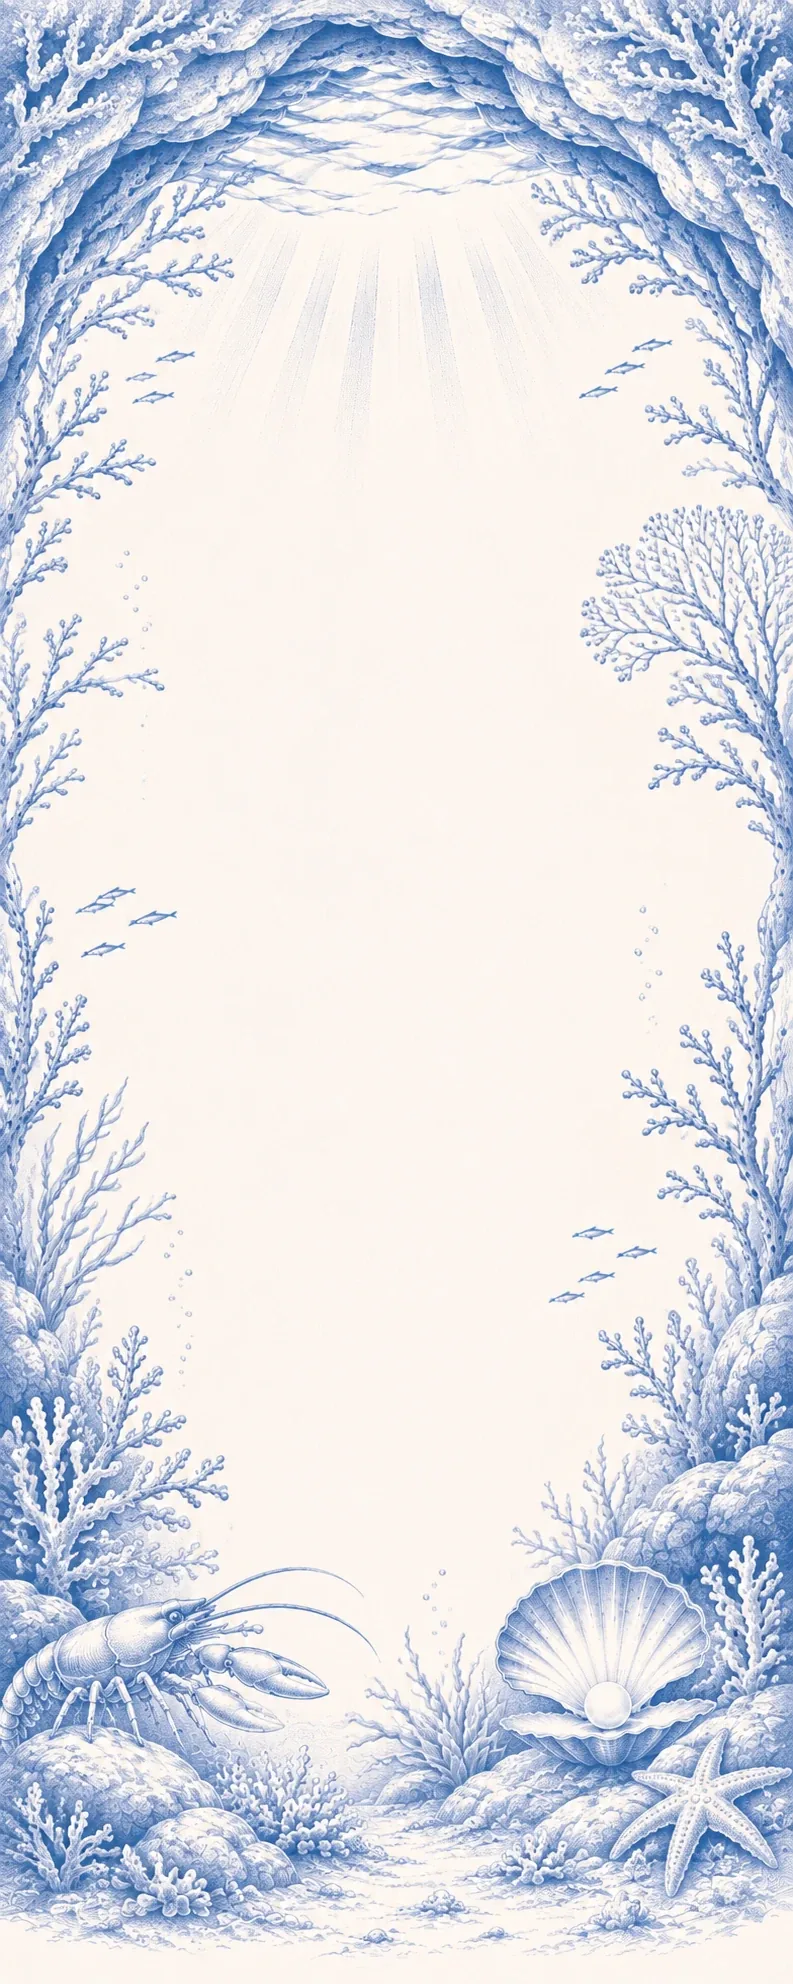
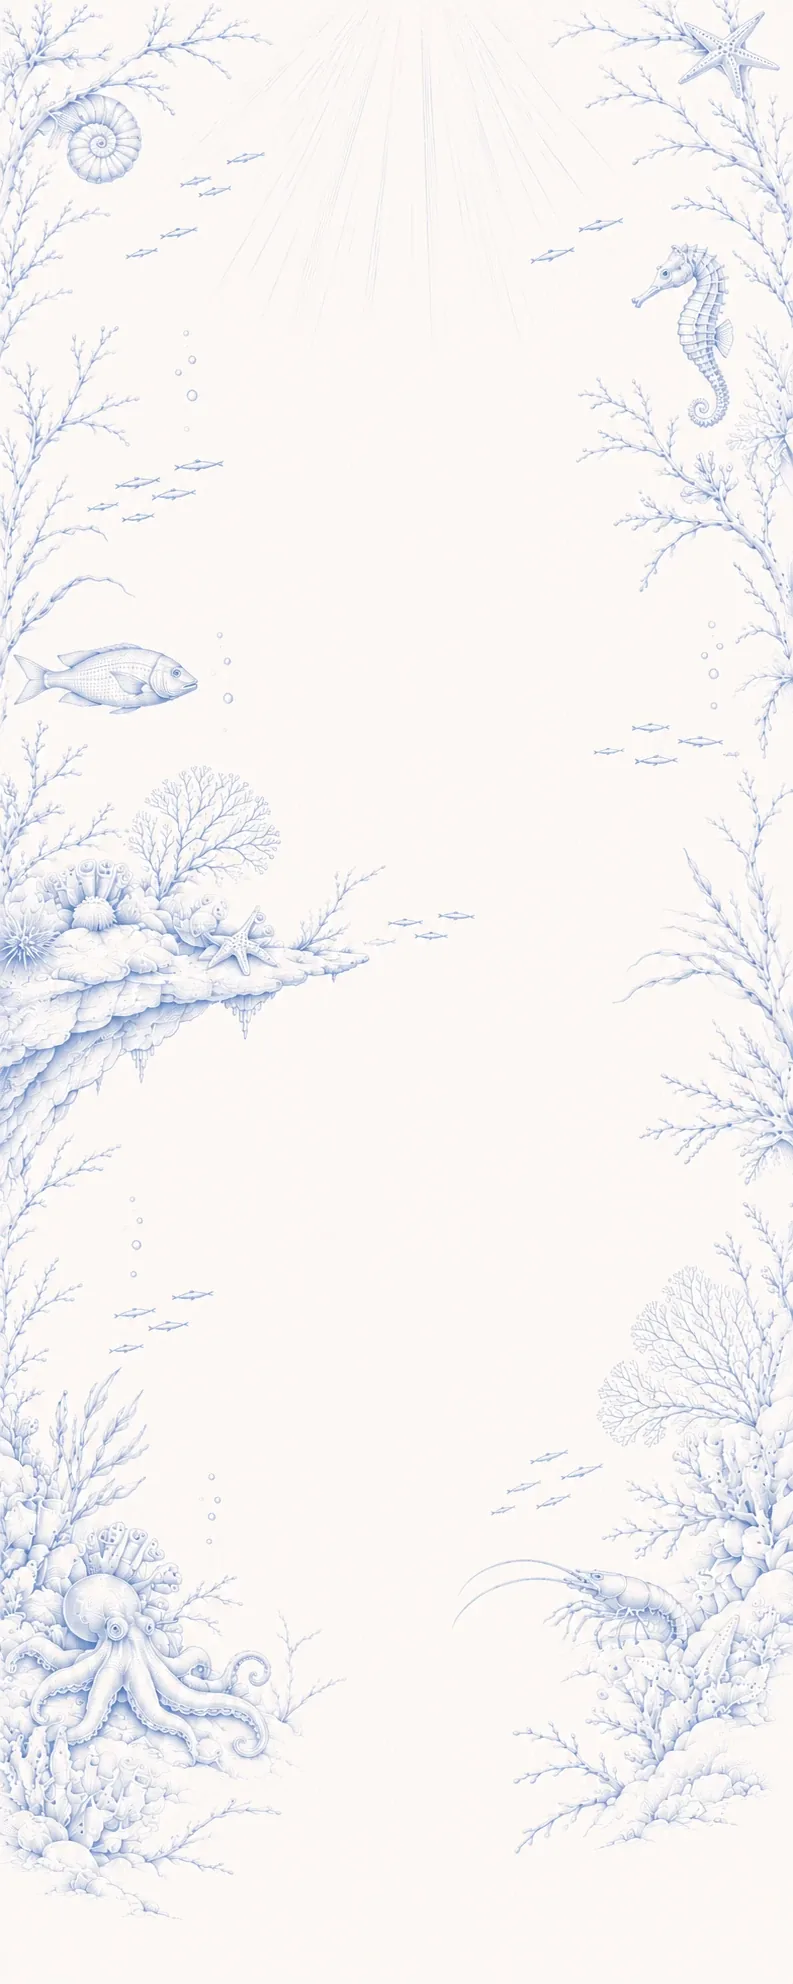
Sfondo Gran Catalana / Plateau Royale: nuovo disegno (fondale con polpo e gambero)

diff --git a/index.html b/index.html
@@ -286,25 +286,25 @@ main{ overflow-x:clip; }
    SEZIONE IN EVIDENZA — i piatti più importanti del menu (premium:true nel MENU):
    Gran Catalana di crostacei e Plateau Royale. Un blocco più alto e arioso, un piatto per volta,
    centrato e grande, con titolo e ingredienti sotto.
-   SFONDO: image/sfondi/bg-premium.webp (disegno a china con cornice di coralli). Per cambiarlo basta
+   SFONDO: image/sfondi/bg-premium.webp (disegno a china: fondale con coralli, polpo e gambero). Per cambiarlo basta
    sostituire quel file o modificare background-image in .dish-block--premium (si carica da solo solo
    quando serve, grazie a data-lazy).
    ============================================================ */
 .dish-block--premium{
   position:relative;
-  padding-top:150px; padding-bottom:350px;      /* l'arco in alto e le rocce in basso restano liberi */
+  padding-top:100px; padding-bottom:350px;      /* in basso polpo e gambero restano liberi */
   background-image:url('image/sfondi/bg-premium.webp');
   background-repeat:no-repeat; background-size:cover; background-position:center;
   background-color:var(--bg-base);
 }
 @media (min-width:768px){
-  /* il disegno è una cornice verticale (793x1984): su schermi larghi resta una colonna centrale,
+  /* il disegno è verticale (793x1984): su schermi larghi resta una colonna centrale,
      con i bordi che sfumano nel fondo della pagina */
   .category .dish-block--premium{
     width:min(100%, 860px); margin-left:auto; margin-right:auto;
     padding-left:0; padding-right:0;
     aspect-ratio:793 / 1984;
-    padding-top:min(300px, 36vw); padding-bottom:min(560px, 66vw);
+    padding-top:min(200px, 24vw); padding-bottom:min(560px, 66vw);
     -webkit-mask-image:linear-gradient(90deg, transparent 0, #000 6%, #000 94%, transparent 100%);
             mask-image:linear-gradient(90deg, transparent 0, #000 6%, #000 94%, transparent 100%);
   }
